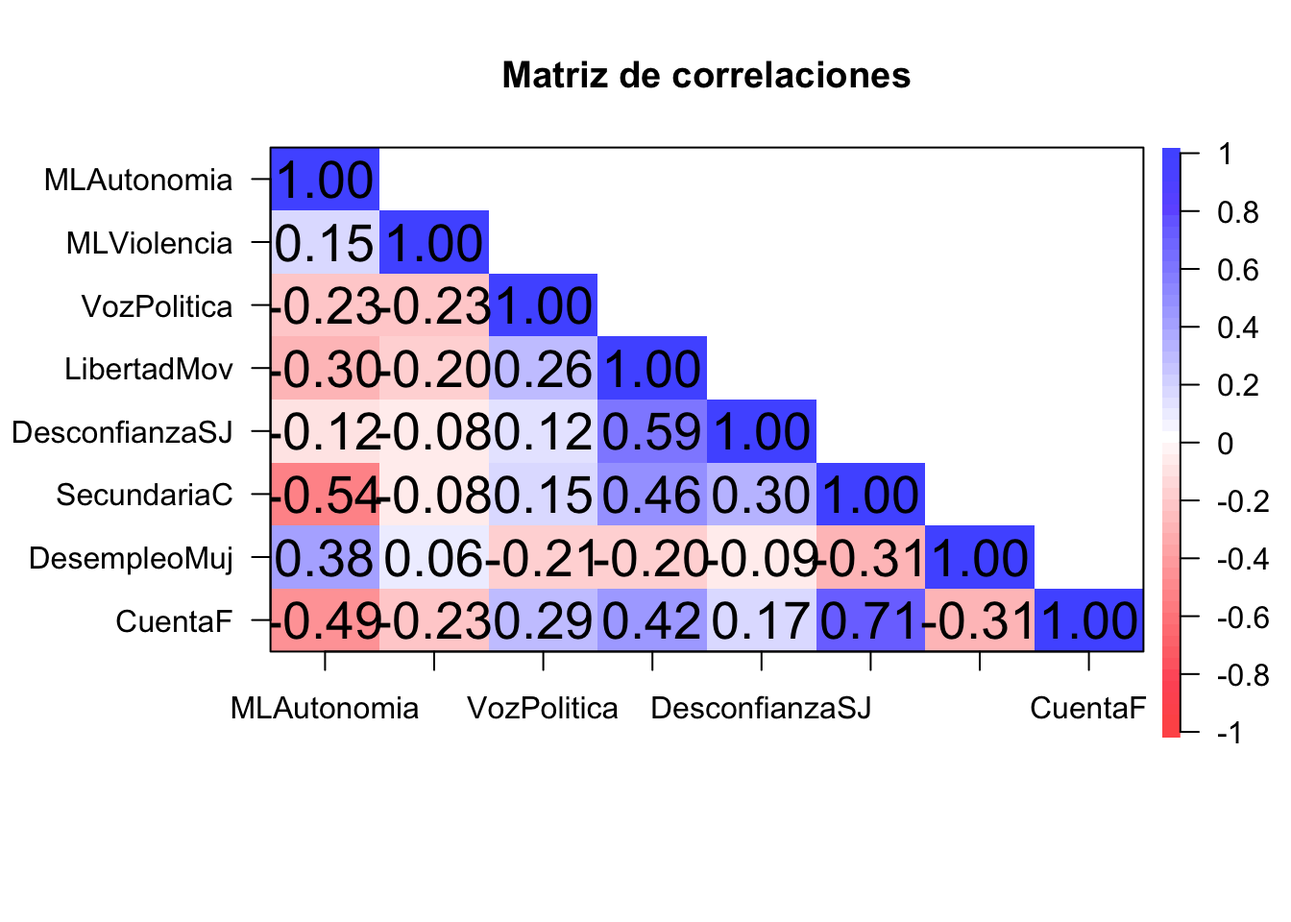
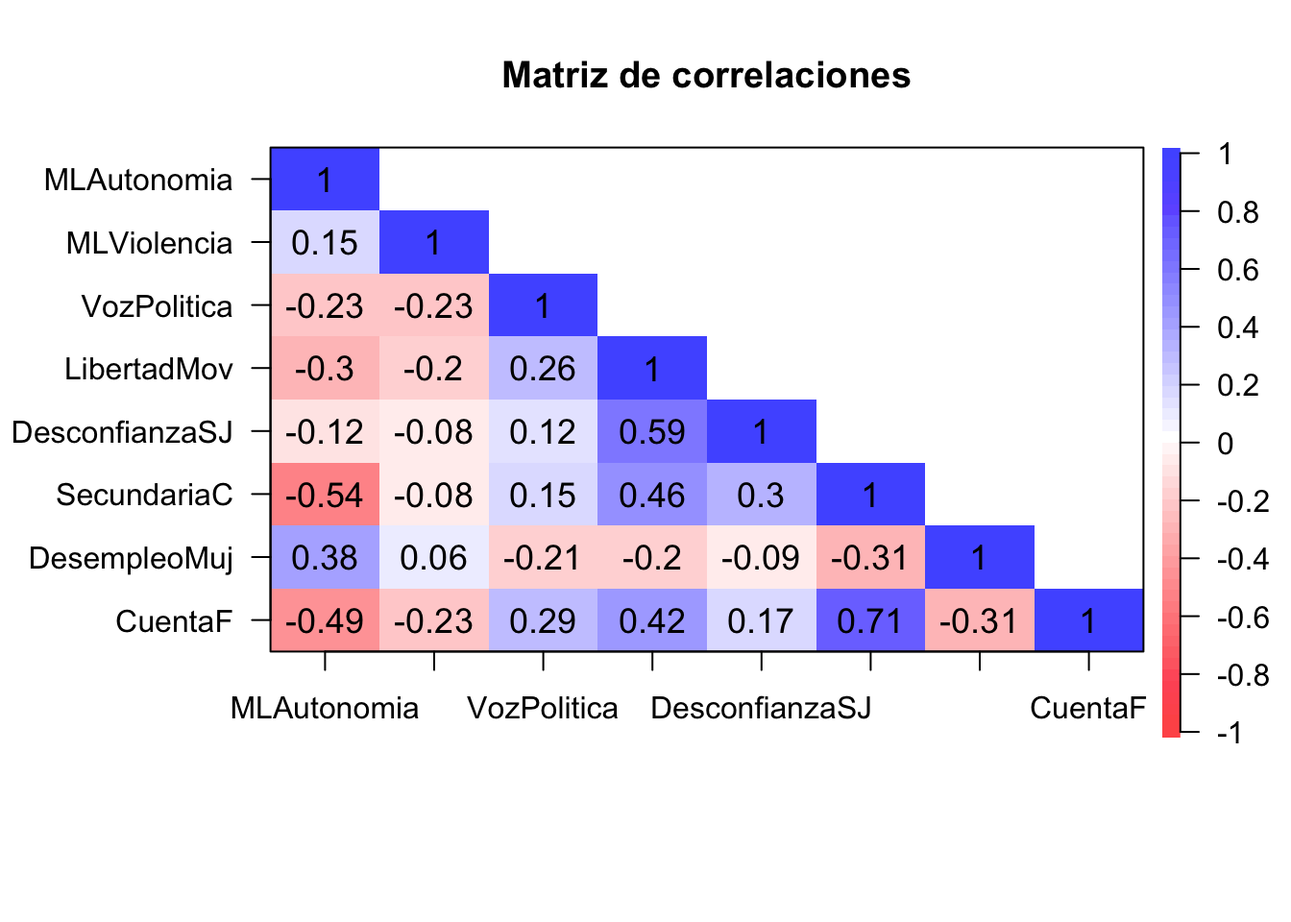
cambios-chiquis

Changed region(s): [[0.1875, 0.3125, 0.9062, 0.7188], [0.1875, 0.1562, 0.375, 0.2812]]

diff --git a/AFC.html b/AFC.html
@@ -13,7 +13,7 @@
 
 <title>Análisis Factorial Confirmatorio</title>
 
-<script src="site_libs/header-attrs-2.21/header-attrs.js"></script>
+<script src="site_libs/header-attrs-2.20/header-attrs.js"></script>
 <script src="site_libs/jquery-3.6.0/jquery-3.6.0.min.js"></script>
 <meta name="viewport" content="width=device-width, initial-scale=1" />
 <link href="site_libs/bootstrap-3.3.5/css/simplex.min.css" rel="stylesheet" />
@@ -34,8 +34,8 @@
 <script src="site_libs/tocify-1.9.1/jquery.tocify.js"></script>
 <script src="site_libs/navigation-1.1/tabsets.js"></script>
 <script src="site_libs/navigation-1.1/codefolding.js"></script>
-<link href="site_libs/font-awesome-6.4.0/css/all.min.css" rel="stylesheet" />
-<link href="site_libs/font-awesome-6.4.0/css/v4-shims.min.css" rel="stylesheet" />
+<link href="site_libs/font-awesome-5.1.0/css/all.css" rel="stylesheet" />
+<link href="site_libs/font-awesome-5.1.0/css/v4-shims.css" rel="stylesheet" />
 
 <style type="text/css">
   code{white-space: pre-wrap;}
@@ -540,50 +540,34 @@ sistema financiero.</p></li>
 </ol>
 <p>Las dos primeras variables son descriptivas, la primera es con
 respecto al país y la segunda es el índice, como un resultado final.</p>
-<div class="sourceCode" id="cb1"><pre class="sourceCode r"><code class="sourceCode r"><span id="cb1-1"><a href="#cb1-1" aria-hidden="true" tabindex="-1"></a><span class="fu">library</span>(rio)</span>
-<span id="cb1-2"><a href="#cb1-2" aria-hidden="true" tabindex="-1"></a>data<span class="ot">&lt;-</span> <span class="fu">import</span>(<span class="st">&quot;desigualdad.xlsx&quot;</span>)</span>
-<span id="cb1-3"><a href="#cb1-3" aria-hidden="true" tabindex="-1"></a><span class="fu">names</span>(data)</span></code></pre></div>
+<div class="sourceCode" id="cb1"><pre class="sourceCode r"><code class="sourceCode r"><span id="cb1-1"><a href="#cb1-1" tabindex="-1"></a><span class="fu">library</span>(rio)</span>
+<span id="cb1-2"><a href="#cb1-2" tabindex="-1"></a>data<span class="ot">&lt;-</span> <span class="fu">import</span>(<span class="st">&quot;desigualdad.xlsx&quot;</span>)</span>
+<span id="cb1-3"><a href="#cb1-3" tabindex="-1"></a><span class="fu">names</span>(data)</span></code></pre></div>
 <p>Lo llamaremos <strong>subdata</strong>:</p>
-<div class="sourceCode" id="cb2"><pre class="sourceCode r"><code class="sourceCode r"><span id="cb2-1"><a href="#cb2-1" aria-hidden="true" tabindex="-1"></a>subdata<span class="ot">&lt;-</span> data[,<span class="fu">c</span>(<span class="dv">3</span><span class="sc">:</span><span class="dv">10</span>)]</span></code></pre></div>
+<div class="sourceCode" id="cb2"><pre class="sourceCode r"><code class="sourceCode r"><span id="cb2-1"><a href="#cb2-1" tabindex="-1"></a>subdata<span class="ot">&lt;-</span> data[,<span class="fu">c</span>(<span class="dv">3</span><span class="sc">:</span><span class="dv">10</span>)]</span></code></pre></div>
 </div>
 </div>
-<div id="paso-1-matriz-de-correlaciones" class="section level2">
-<h2>Paso 1: Matriz de correlaciones</h2>
+<div id="paso-1-matriz-de-correlaciones" class="section level1">
+<h1>Paso 1: Matriz de correlaciones</h1>
 <p>Generamos la matriz de correlaciones para identificar qué variables
 de nuestra subdata están correlacionadas.</p>
-<div class="sourceCode" id="cb3"><pre class="sourceCode r"><code class="sourceCode r"><span id="cb3-1"><a href="#cb3-1" aria-hidden="true" tabindex="-1"></a><span class="fu">library</span>(polycor)</span>
-<span id="cb3-2"><a href="#cb3-2" aria-hidden="true" tabindex="-1"></a>corMatrix<span class="ot">&lt;-</span>polycor<span class="sc">::</span><span class="fu">hetcor</span>(subdata)<span class="sc">$</span>correlations</span>
-<span id="cb3-3"><a href="#cb3-3" aria-hidden="true" tabindex="-1"></a>corMatrix</span></code></pre></div>
-<pre><code>##                MLAutonomia MLViolencia VozPolitica LibertadMov DesconfianzaSJ
-## MLAutonomia      1.0000000  0.15421933  -0.2322180  -0.2961173    -0.11756698
-## MLViolencia      0.1542193  1.00000000  -0.2266534  -0.2008152    -0.08173408
-## VozPolitica     -0.2322180 -0.22665338   1.0000000   0.2563084     0.12122757
-## LibertadMov     -0.2961173 -0.20081518   0.2563084   1.0000000     0.58969916
-## DesconfianzaSJ  -0.1175670 -0.08173408   0.1212276   0.5896992     1.00000000
-## SecundariaC     -0.5392837 -0.07506195   0.1462758   0.4608946     0.30338100
-## DesempleoMuj     0.3798929  0.06311283  -0.2092122  -0.1966058    -0.08814631
-## CuentaF         -0.4890307 -0.22699472   0.2889660   0.4158157     0.17302123
-##                SecundariaC DesempleoMuj    CuentaF
-## MLAutonomia    -0.53928370   0.37989285 -0.4890307
-## MLViolencia    -0.07506195   0.06311283 -0.2269947
-## VozPolitica     0.14627576  -0.20921218  0.2889660
-## LibertadMov     0.46089464  -0.19660582  0.4158157
-## DesconfianzaSJ  0.30338100  -0.08814631  0.1730212
-## SecundariaC     1.00000000  -0.30574213  0.7104165
-## DesempleoMuj   -0.30574213   1.00000000 -0.3137069
-## CuentaF         0.71041650  -0.31370692  1.0000000</code></pre>
-<div class="sourceCode" id="cb5"><pre class="sourceCode r"><code class="sourceCode r"><span id="cb5-1"><a href="#cb5-1" aria-hidden="true" tabindex="-1"></a><span class="fu">library</span>(psych)</span>
-<span id="cb5-2"><a href="#cb5-2" aria-hidden="true" tabindex="-1"></a><span class="fu">cor.plot</span>(corMatrix,</span>
-<span id="cb5-3"><a href="#cb5-3" aria-hidden="true" tabindex="-1"></a>          <span class="at">numbers=</span>T, <span class="co">#Se muestren los numeros de las correlaciones</span></span>
-<span id="cb5-4"><a href="#cb5-4" aria-hidden="true" tabindex="-1"></a>          <span class="at">upper=</span>F, <span class="co">#Que aparezca la segunda parte</span></span>
-<span id="cb5-5"><a href="#cb5-5" aria-hidden="true" tabindex="-1"></a>          <span class="at">main=</span> <span class="st">&quot;Matriz de correlaciones&quot;</span>,<span class="co">#Titulo</span></span>
-<span id="cb5-6"><a href="#cb5-6" aria-hidden="true" tabindex="-1"></a>          <span class="at">show.legend=</span>T)<span class="co">#Mostrar leyenda</span></span></code></pre></div>
-<p><img src="AFC_files/figure-html/unnamed-chunk-5-1.png" width="672" />
-# Paso 2: Corroborar si se puede factorizar</p>
+<div class="sourceCode" id="cb3"><pre class="sourceCode r"><code class="sourceCode r"><span id="cb3-1"><a href="#cb3-1" tabindex="-1"></a><span class="fu">library</span>(polycor)</span>
+<span id="cb3-2"><a href="#cb3-2" tabindex="-1"></a>corMatrix<span class="ot">&lt;-</span>polycor<span class="sc">::</span><span class="fu">hetcor</span>(subdata)<span class="sc">$</span>correlations</span></code></pre></div>
+<div class="sourceCode" id="cb4"><pre class="sourceCode r"><code class="sourceCode r"><span id="cb4-1"><a href="#cb4-1" tabindex="-1"></a><span class="fu">library</span>(psych)</span>
+<span id="cb4-2"><a href="#cb4-2" tabindex="-1"></a><span class="fu">cor.plot</span>(corMatrix,</span>
+<span id="cb4-3"><a href="#cb4-3" tabindex="-1"></a>          <span class="at">numbers=</span>T, <span class="co">#Se muestren los numeros de las correlaciones</span></span>
+<span id="cb4-4"><a href="#cb4-4" tabindex="-1"></a>          <span class="at">upper=</span>F, <span class="co">#Que aparezca la segunda parte</span></span>
+<span id="cb4-5"><a href="#cb4-5" tabindex="-1"></a>          <span class="at">main=</span> <span class="st">&quot;Matriz de correlaciones&quot;</span>,<span class="co">#Titulo</span></span>
+<span id="cb4-6"><a href="#cb4-6" tabindex="-1"></a>          <span class="at">show.legend=</span>T)<span class="co">#Mostrar leyenda</span></span></code></pre></div>
+<p><img src="AFC_files/figure-html/unnamed-chunk-5-1.png" width="672" /></p>
+</div>
+<div id="paso-2-corroborar-si-se-puede-factorizar"
+class="section level1">
+<h1>Paso 2: Corroborar si se puede factorizar</h1>
 <p>KMO</p>
 <p>Proceso correlación</p>
-<div class="sourceCode" id="cb6"><pre class="sourceCode r"><code class="sourceCode r"><span id="cb6-1"><a href="#cb6-1" aria-hidden="true" tabindex="-1"></a><span class="fu">library</span>(psych)</span>
-<span id="cb6-2"><a href="#cb6-2" aria-hidden="true" tabindex="-1"></a>psych<span class="sc">::</span><span class="fu">KMO</span>(subdata)</span></code></pre></div>
+<div class="sourceCode" id="cb5"><pre class="sourceCode r"><code class="sourceCode r"><span id="cb5-1"><a href="#cb5-1" tabindex="-1"></a><span class="fu">library</span>(psych)</span>
+<span id="cb5-2"><a href="#cb5-2" tabindex="-1"></a>psych<span class="sc">::</span><span class="fu">KMO</span>(subdata)</span></code></pre></div>
 <pre><code>## Kaiser-Meyer-Olkin factor adequacy
 ## Call: psych::KMO(r = subdata)
 ## Overall MSA =  0.73
@@ -593,28 +577,27 @@ de nuestra subdata están correlacionadas.</p>
 ##    SecundariaC   DesempleoMuj        CuentaF 
 ##           0.70           0.85           0.72</code></pre>
 <p>Bartlet</p>
-<div class="sourceCode" id="cb8"><pre class="sourceCode r"><code class="sourceCode r"><span id="cb8-1"><a href="#cb8-1" aria-hidden="true" tabindex="-1"></a><span class="fu">cortest.bartlett</span>(corMatrix,<span class="at">n=</span><span class="fu">nrow</span>(subdata))<span class="sc">$</span>p.value<span class="sc">&gt;</span><span class="fl">0.05</span> <span class="co">#Menor a 0.05 saldrá FALSE, mayor a 0.05 saldra TRUE</span></span></code></pre></div>
+<div class="sourceCode" id="cb7"><pre class="sourceCode r"><code class="sourceCode r"><span id="cb7-1"><a href="#cb7-1" tabindex="-1"></a><span class="fu">cortest.bartlett</span>(corMatrix,<span class="at">n=</span><span class="fu">nrow</span>(subdata))<span class="sc">$</span>p.value<span class="sc">&gt;</span><span class="fl">0.05</span> <span class="co">#Menor a 0.05 saldrá FALSE, mayor a 0.05 saldra TRUE</span></span></code></pre></div>
 <pre><code>## [1] FALSE</code></pre>
 </div>
 <div id="paso-3-análisis-factorial-exploratorio" class="section level1">
 <h1>Paso 3: Análisis Factorial Exploratorio</h1>
 <p>Gráfico de sedimentación</p>
-<div class="sourceCode" id="cb10"><pre class="sourceCode r"><code class="sourceCode r"><span id="cb10-1"><a href="#cb10-1" aria-hidden="true" tabindex="-1"></a><span class="fu">fa.parallel</span>(corMatrix, <span class="at">fm=</span><span class="st">&quot;pa&quot;</span>, <span class="at">fa=</span><span class="st">&quot;fa&quot;</span>, <span class="at">main =</span> <span class="st">&quot;Scree Plot&quot;</span>)</span></code></pre></div>
+<div class="sourceCode" id="cb9"><pre class="sourceCode r"><code class="sourceCode r"><span id="cb9-1"><a href="#cb9-1" tabindex="-1"></a><span class="fu">fa.parallel</span>(corMatrix, <span class="at">fm=</span><span class="st">&quot;pa&quot;</span>, <span class="at">fa=</span><span class="st">&quot;fa&quot;</span>, <span class="at">main =</span> <span class="st">&quot;Scree Plot&quot;</span>)</span></code></pre></div>
 <p><img src="AFC_files/figure-html/unnamed-chunk-8-1.png" width="672" /></p>
 <pre><code>## Parallel analysis suggests that the number of factors =  4  and the number of components =  NA</code></pre>
-<p>Recomienda 3 factores, 3 triangulos debajo de la línea punteada</p>
 <p>Autovalores</p>
-<div class="sourceCode" id="cb12"><pre class="sourceCode r"><code class="sourceCode r"><span id="cb12-1"><a href="#cb12-1" aria-hidden="true" tabindex="-1"></a>eigenf <span class="ot">=</span> <span class="fu">eigen</span>(<span class="fu">cor</span>(subdata, <span class="at">use=</span><span class="st">&quot;complete&quot;</span>))</span>
-<span id="cb12-2"><a href="#cb12-2" aria-hidden="true" tabindex="-1"></a>eigenf<span class="sc">$</span>values</span></code></pre></div>
+<div class="sourceCode" id="cb11"><pre class="sourceCode r"><code class="sourceCode r"><span id="cb11-1"><a href="#cb11-1" tabindex="-1"></a>eigenf <span class="ot">=</span> <span class="fu">eigen</span>(<span class="fu">cor</span>(subdata, <span class="at">use=</span><span class="st">&quot;complete&quot;</span>))</span>
+<span id="cb11-2"><a href="#cb11-2" tabindex="-1"></a>eigenf<span class="sc">$</span>values</span></code></pre></div>
 <pre><code>## [1] 3.0714888 1.2071756 1.0772113 0.8265806 0.7015968 0.5154084 0.3600658
 ## [8] 0.2404727</code></pre>
 <p>También recomienda 3 factores :)</p>
 </div>
 <div id="factorizar" class="section level1">
 <h1>Factorizar</h1>
-<div class="sourceCode" id="cb14"><pre class="sourceCode r"><code class="sourceCode r"><span id="cb14-1"><a href="#cb14-1" aria-hidden="true" tabindex="-1"></a><span class="fu">library</span>(GPArotation)</span>
-<span id="cb14-2"><a href="#cb14-2" aria-hidden="true" tabindex="-1"></a>factorial <span class="ot">&lt;-</span> <span class="fu">fa</span>(subdata,<span class="at">nfactors=</span> <span class="dv">3</span> ,<span class="at">rotate =</span> <span class="st">&quot;varimax&quot;</span>,<span class="at">fm=</span><span class="st">&quot;minres&quot;</span>)</span>
-<span id="cb14-3"><a href="#cb14-3" aria-hidden="true" tabindex="-1"></a>factorial</span></code></pre></div>
+<div class="sourceCode" id="cb13"><pre class="sourceCode r"><code class="sourceCode r"><span id="cb13-1"><a href="#cb13-1" tabindex="-1"></a><span class="fu">library</span>(GPArotation)</span>
+<span id="cb13-2"><a href="#cb13-2" tabindex="-1"></a>factorial <span class="ot">&lt;-</span> <span class="fu">fa</span>(subdata,<span class="at">nfactors=</span> <span class="dv">3</span> ,<span class="at">rotate =</span> <span class="st">&quot;varimax&quot;</span>,<span class="at">fm=</span><span class="st">&quot;minres&quot;</span>)</span>
+<span id="cb13-3"><a href="#cb13-3" tabindex="-1"></a>factorial</span></code></pre></div>
 <pre><code>## Factor Analysis using method =  minres
 ## Call: fa(r = subdata, nfactors = 3, rotate = &quot;varimax&quot;, fm = &quot;minres&quot;)
 ## Standardized loadings (pattern matrix) based upon correlation matrix
@@ -638,14 +621,14 @@ de nuestra subdata están correlacionadas.</p>
 ## Mean item complexity =  1.4
 ## Test of the hypothesis that 3 factors are sufficient.
 ## 
-## df null model =  28  with the objective function =  2.27 with Chi Square =  264.39
-## df of  the model are 7  and the objective function was  0.05 
+## The degrees of freedom for the null model are  28  and the objective function was  2.27 with Chi Square of  264.39
+## The degrees of freedom for the model are 7  and the objective function was  0.05 
 ## 
 ## The root mean square of the residuals (RMSR) is  0.03 
 ## The df corrected root mean square of the residuals is  0.05 
 ## 
-## The harmonic n.obs is  121 with the empirical chi square  4.49  with prob &lt;  0.72 
-## The total n.obs was  121  with Likelihood Chi Square =  6.28  with prob &lt;  0.51 
+## The harmonic number of observations is  121 with the empirical chi square  4.49  with prob &lt;  0.72 
+## The total number of observations was  121  with Likelihood Chi Square =  6.28  with prob &lt;  0.51 
 ## 
 ## Tucker Lewis Index of factoring reliability =  1.012
 ## RMSEA index =  0  and the 90 % confidence intervals are  0 0.105
@@ -656,23 +639,23 @@ de nuestra subdata están correlacionadas.</p>
 ## Correlation of (regression) scores with factors   0.98 0.86 0.78
 ## Multiple R square of scores with factors          0.96 0.74 0.61
 ## Minimum correlation of possible factor scores     0.92 0.47 0.21</code></pre>
-<div class="sourceCode" id="cb16"><pre class="sourceCode r"><code class="sourceCode r"><span id="cb16-1"><a href="#cb16-1" aria-hidden="true" tabindex="-1"></a><span class="fu">fa.diagram</span>(factorial)</span></code></pre></div>
+<div class="sourceCode" id="cb15"><pre class="sourceCode r"><code class="sourceCode r"><span id="cb15-1"><a href="#cb15-1" tabindex="-1"></a><span class="fu">fa.diagram</span>(factorial)</span></code></pre></div>
 <p><img src="AFC_files/figure-html/unnamed-chunk-11-1.png" width="672" /></p>
 <p>Podemos observar que hay unas líneas punteadas rojas, ello implica
 que las cargas factoriales son negativas, lo que significa que la
 relación entre la variable observable y el factor creado es inversa.</p>
 <p>** Vemos cargas factoriales y cumulative var.**</p>
-<div class="sourceCode" id="cb17"><pre class="sourceCode r"><code class="sourceCode r"><span id="cb17-1"><a href="#cb17-1" aria-hidden="true" tabindex="-1"></a><span class="fu">print</span>(factorial<span class="sc">$</span>loadings,<span class="at">cutoff =</span> <span class="fl">0.3</span>)</span></code></pre></div>
+<div class="sourceCode" id="cb16"><pre class="sourceCode r"><code class="sourceCode r"><span id="cb16-1"><a href="#cb16-1" tabindex="-1"></a><span class="fu">print</span>(factorial<span class="sc">$</span>loadings,<span class="at">cutoff =</span> <span class="fl">0.2</span>)</span></code></pre></div>
 <pre><code>## 
 ## Loadings:
 ##                MR1    MR2    MR3   
 ## MLAutonomia    -0.585        -0.311
 ## MLViolencia                  -0.368
 ## VozPolitica                   0.512
-## LibertadMov            0.773       
+## LibertadMov     0.259  0.773  0.298
 ## DesconfianzaSJ         0.708       
 ## SecundariaC     0.943  0.319       
-## DesempleoMuj   -0.363              
+## DesempleoMuj   -0.363        -0.271
 ## CuentaF         0.696         0.318
 ## 
 ##                  MR1   MR2   MR3
@@ -684,10 +667,10 @@ relación entre la variable observable y el factor creado es inversa.</p>
 <p>3.Proportion Var y Cumulative Var</p>
 <p>#Evaluamos las variables observadas</p>
 <ul>
-<li>¿Qué variables observables tienen mayor información en común
+<li>¿Qué variables observables tienen mayor información en común/
 aportaron mas a los factores?</li>
 </ul>
-<div class="sourceCode" id="cb19"><pre class="sourceCode r"><code class="sourceCode r"><span id="cb19-1"><a href="#cb19-1" aria-hidden="true" tabindex="-1"></a><span class="fu">sort</span>(factorial<span class="sc">$</span>communality) <span class="co">#comunalidad=varianza común</span></span></code></pre></div>
+<div class="sourceCode" id="cb18"><pre class="sourceCode r"><code class="sourceCode r"><span id="cb18-1"><a href="#cb18-1" tabindex="-1"></a><span class="fu">sort</span>(factorial<span class="sc">$</span>communality) <span class="co">#comunalidad=varianza común</span></span></code></pre></div>
 <pre><code>##    MLViolencia   DesempleoMuj    VozPolitica    MLAutonomia DesconfianzaSJ 
 ##      0.1496488      0.2059285      0.2952376      0.4424106      0.5122846 
 ##        CuentaF    LibertadMov    SecundariaC 
@@ -695,9 +678,9 @@ aportaron mas a los factores?</li>
 <p>Secundaria y Libertad Mov tienen mayor información en común con las
 demás variables (comunalidad)</p>
 <ul>
-<li>¿Qué variables contribuyen a mas de un factor?</li>
+<li>¿Qué variables contribuyen a más de un factor?</li>
 </ul>
-<div class="sourceCode" id="cb21"><pre class="sourceCode r"><code class="sourceCode r"><span id="cb21-1"><a href="#cb21-1" aria-hidden="true" tabindex="-1"></a><span class="fu">sort</span>(factorial<span class="sc">$</span>complexity)</span></code></pre></div>
+<div class="sourceCode" id="cb20"><pre class="sourceCode r"><code class="sourceCode r"><span id="cb20-1"><a href="#cb20-1" tabindex="-1"></a><span class="fu">sort</span>(factorial<span class="sc">$</span>complexity)</span></code></pre></div>
 <pre><code>## DesconfianzaSJ    MLViolencia    SecundariaC    VozPolitica        CuentaF 
 ##       1.042928       1.209716       1.239126       1.255815       1.533909 
 ##    LibertadMov    MLAutonomia   DesempleoMuj 
@@ -706,7 +689,7 @@ demás variables (comunalidad)</p>
 <li>¿Qué variables observables tiene un componente “único” más
 grande?</li>
 </ul>
-<div class="sourceCode" id="cb23"><pre class="sourceCode r"><code class="sourceCode r"><span id="cb23-1"><a href="#cb23-1" aria-hidden="true" tabindex="-1"></a><span class="fu">sort</span>(factorial<span class="sc">$</span>uniquenesses)</span></code></pre></div>
+<div class="sourceCode" id="cb22"><pre class="sourceCode r"><code class="sourceCode r"><span id="cb22-1"><a href="#cb22-1" tabindex="-1"></a><span class="fu">sort</span>(factorial<span class="sc">$</span>uniquenesses)</span></code></pre></div>
 <pre><code>##    SecundariaC    LibertadMov        CuentaF DesconfianzaSJ    MLAutonomia 
 ##    0.003531703    0.246615008    0.386347125    0.487715417    0.557589415 
 ##    VozPolitica   DesempleoMuj    MLViolencia 
@@ -715,30 +698,31 @@ grande?</li>
 quiere decir que aportan poco cn la información en común que se tiene
 con las demás variables.</p>
 </div>
-<div id="análisis-factorial-confirmatorio" class="section level1">
-<h1>Análisis Factorial confirmatorio</h1>
+<div id="paso-4-análisis-factorial-confirmatorio"
+class="section level1">
+<h1>Paso 4: Análisis Factorial confirmatorio</h1>
 <p>Como tenemos una sugerencia planteada en el AFE, lo corroboraremos
 con el AFC.</p>
 <p>En caso una variable observable comparte en más de un factor la
 consideraremos en donde tiene una mayor carga factorial.</p>
-<div class="sourceCode" id="cb25"><pre class="sourceCode r"><code class="sourceCode r"><span id="cb25-1"><a href="#cb25-1" aria-hidden="true" tabindex="-1"></a><span class="co">#install.packages(&quot;lavaan&quot;)</span></span>
-<span id="cb25-2"><a href="#cb25-2" aria-hidden="true" tabindex="-1"></a><span class="co">#install.packages(&quot;semPlot&quot;)</span></span>
-<span id="cb25-3"><a href="#cb25-3" aria-hidden="true" tabindex="-1"></a><span class="fu">library</span>(lavaan)</span>
-<span id="cb25-4"><a href="#cb25-4" aria-hidden="true" tabindex="-1"></a><span class="fu">library</span>(semPlot)</span></code></pre></div>
-<div class="sourceCode" id="cb26"><pre class="sourceCode r"><code class="sourceCode r"><span id="cb26-1"><a href="#cb26-1" aria-hidden="true" tabindex="-1"></a><span class="fu">names</span>(subdata)</span></code></pre></div>
+<div class="sourceCode" id="cb24"><pre class="sourceCode r"><code class="sourceCode r"><span id="cb24-1"><a href="#cb24-1" tabindex="-1"></a><span class="co">#install.packages(&quot;lavaan&quot;)</span></span>
+<span id="cb24-2"><a href="#cb24-2" tabindex="-1"></a><span class="co">#install.packages(&quot;semPlot&quot;)</span></span>
+<span id="cb24-3"><a href="#cb24-3" tabindex="-1"></a><span class="fu">library</span>(lavaan)</span>
+<span id="cb24-4"><a href="#cb24-4" tabindex="-1"></a><span class="fu">library</span>(semPlot)</span></code></pre></div>
+<div class="sourceCode" id="cb25"><pre class="sourceCode r"><code class="sourceCode r"><span id="cb25-1"><a href="#cb25-1" tabindex="-1"></a><span class="fu">names</span>(subdata)</span></code></pre></div>
 <pre><code>## [1] &quot;MLAutonomia&quot;    &quot;MLViolencia&quot;    &quot;VozPolitica&quot;    &quot;LibertadMov&quot;   
 ## [5] &quot;DesconfianzaSJ&quot; &quot;SecundariaC&quot;    &quot;DesempleoMuj&quot;   &quot;CuentaF&quot;</code></pre>
-<div class="sourceCode" id="cb28"><pre class="sourceCode r"><code class="sourceCode r"><span id="cb28-1"><a href="#cb28-1" aria-hidden="true" tabindex="-1"></a>Modelo_confir <span class="ot">&lt;-</span> <span class="st">&quot;FAC1 =~ SecundariaC + CuentaF + MLAutonomia + DesempleoMuj</span></span>
-<span id="cb28-2"><a href="#cb28-2" aria-hidden="true" tabindex="-1"></a><span class="st">                FAC2 =~ LibertadMov + DesconfianzaSJ</span></span>
-<span id="cb28-3"><a href="#cb28-3" aria-hidden="true" tabindex="-1"></a><span class="st">                FAC3 =~ VozPolitica + MLViolencia&quot;</span></span>
-<span id="cb28-4"><a href="#cb28-4" aria-hidden="true" tabindex="-1"></a>Modelo_confir</span></code></pre></div>
+<div class="sourceCode" id="cb27"><pre class="sourceCode r"><code class="sourceCode r"><span id="cb27-1"><a href="#cb27-1" tabindex="-1"></a>Modelo_confir <span class="ot">&lt;-</span> <span class="st">&quot;FAC1 =~ SecundariaC + CuentaF + MLAutonomia + DesempleoMuj</span></span>
+<span id="cb27-2"><a href="#cb27-2" tabindex="-1"></a><span class="st">                FAC2 =~ LibertadMov + DesconfianzaSJ</span></span>
+<span id="cb27-3"><a href="#cb27-3" tabindex="-1"></a><span class="st">                FAC3 =~ VozPolitica + MLViolencia&quot;</span></span>
+<span id="cb27-4"><a href="#cb27-4" tabindex="-1"></a>Modelo_confir</span></code></pre></div>
 <pre><code>## [1] &quot;FAC1 =~ SecundariaC + CuentaF + MLAutonomia + DesempleoMuj\n                FAC2 =~ LibertadMov + DesconfianzaSJ\n                FAC3 =~ VozPolitica + MLViolencia&quot;</code></pre>
 <p>Lo que se realizaría es indicar el nombre de cada facrtor, y qué
 variables las integran, solo indicamos el nombre de estas variables, en
 el siguiente comando indicaríamos la base</p>
-<div class="sourceCode" id="cb30"><pre class="sourceCode r"><code class="sourceCode r"><span id="cb30-1"><a href="#cb30-1" aria-hidden="true" tabindex="-1"></a>modelo<span class="ot">&lt;-</span><span class="fu">cfa</span>(Modelo_confir, <span class="at">data=</span>subdata)</span>
-<span id="cb30-2"><a href="#cb30-2" aria-hidden="true" tabindex="-1"></a><span class="fu">summary</span>(modelo,<span class="at">fit.measures=</span>F)</span></code></pre></div>
-<pre><code>## lavaan 0.6.15 ended normally after 255 iterations
+<div class="sourceCode" id="cb29"><pre class="sourceCode r"><code class="sourceCode r"><span id="cb29-1"><a href="#cb29-1" tabindex="-1"></a>modelo<span class="ot">&lt;-</span><span class="fu">cfa</span>(Modelo_confir, <span class="at">data=</span>subdata)</span>
+<span id="cb29-2"><a href="#cb29-2" tabindex="-1"></a><span class="fu">summary</span>(modelo,<span class="at">fit.measures=</span>F)</span></code></pre></div>
+<pre><code>## lavaan 0.6.16 ended normally after 255 iterations
 ## 
 ##   Estimator                                         ML
 ##   Optimization method                           NLMINB
@@ -788,7 +772,7 @@ el siguiente comando indicaríamos la base</p>
 ##    .DesempleoMuj      0.128    0.017    7.529    0.000
 ##    .LibertadMov     -16.010   31.116   -0.515    0.607
 ##    .DesconfianzaSJ   43.848    7.328    5.984    0.000
-##    .VozPolitica      91.392   23.388    3.908    0.000
+##    .VozPolitica      91.391   23.388    3.908    0.000
 ##    .MLViolencia       0.036    0.006    6.195    0.000
 ##     FAC1            644.026  122.846    5.243    0.000
 ##     FAC2            126.940   34.105    3.722    0.000
@@ -798,7 +782,7 @@ tengan un pvalue menor a 0.05 para concluir que si aportan a los
 factores de manera significativa.</p>
 <div id="graficamos" class="section level2">
 <h2><strong>Graficamos</strong></h2>
-<div class="sourceCode" id="cb32"><pre class="sourceCode r"><code class="sourceCode r"><span id="cb32-1"><a href="#cb32-1" aria-hidden="true" tabindex="-1"></a><span class="fu">semPaths</span>(modelo, <span class="at">intercepts =</span> <span class="cn">FALSE</span>,<span class="at">edge.label.cex=</span><span class="fl">1.5</span>, <span class="at">optimizeLatRes =</span> <span class="cn">TRUE</span>, <span class="at">groups =</span> <span class="st">&quot;lat&quot;</span>,<span class="at">pastel =</span> <span class="cn">TRUE</span>, <span class="at">exoVar =</span> <span class="cn">FALSE</span>, <span class="at">sizeInt=</span><span class="dv">5</span>,<span class="at">edge.color =</span><span class="st">&quot;black&quot;</span>,<span class="at">esize =</span> <span class="dv">6</span>, <span class="at">label.prop=</span><span class="dv">2</span>,<span class="at">sizeLat =</span> <span class="dv">6</span>,<span class="st">&quot;std&quot;</span>, <span class="at">layout=</span><span class="st">&quot;circle2&quot;</span>)</span></code></pre></div>
+<div class="sourceCode" id="cb31"><pre class="sourceCode r"><code class="sourceCode r"><span id="cb31-1"><a href="#cb31-1" tabindex="-1"></a><span class="fu">semPaths</span>(modelo, <span class="at">intercepts =</span> <span class="cn">FALSE</span>,<span class="at">edge.label.cex=</span><span class="fl">1.5</span>, <span class="at">optimizeLatRes =</span> <span class="cn">TRUE</span>, <span class="at">groups =</span> <span class="st">&quot;lat&quot;</span>,<span class="at">pastel =</span> <span class="cn">TRUE</span>, <span class="at">exoVar =</span> <span class="cn">FALSE</span>, <span class="at">sizeInt=</span><span class="dv">5</span>,<span class="at">edge.color =</span><span class="st">&quot;black&quot;</span>,<span class="at">esize =</span> <span class="dv">6</span>, <span class="at">label.prop=</span><span class="dv">2</span>,<span class="at">sizeLat =</span> <span class="dv">6</span>,<span class="st">&quot;std&quot;</span>, <span class="at">layout=</span><span class="st">&quot;circle2&quot;</span>)</span></code></pre></div>
 <p><img src="AFC_files/figure-html/unnamed-chunk-20-1.png" width="672" /></p>
 <p>Podemos observar los 3 factores creados. Los numeros que vemos entre
 los factores y las variables latentes son las cargas facrtoriales,
@@ -810,23 +794,23 @@ sea menor que la carga factorial.</p>
 <div id="agregamos-los-factores-a-la-base-de-datos"
 class="section level2">
 <h2>Agregamos los factores a la base de datos</h2>
-<div class="sourceCode" id="cb33"><pre class="sourceCode r"><code class="sourceCode r"><span id="cb33-1"><a href="#cb33-1" aria-hidden="true" tabindex="-1"></a>factorial_casos<span class="ot">&lt;-</span><span class="fu">as.data.frame</span>(factorial<span class="sc">$</span>scores)</span></code></pre></div>
-<div class="sourceCode" id="cb34"><pre class="sourceCode r"><code class="sourceCode r"><span id="cb34-1"><a href="#cb34-1" aria-hidden="true" tabindex="-1"></a>subdata<span class="sc">$</span>factor1<span class="ot">&lt;-</span> factorial_casos<span class="sc">$</span>MR1</span>
-<span id="cb34-2"><a href="#cb34-2" aria-hidden="true" tabindex="-1"></a>subdata<span class="sc">$</span>factor2<span class="ot">&lt;-</span> factorial_casos<span class="sc">$</span>MR2</span>
-<span id="cb34-3"><a href="#cb34-3" aria-hidden="true" tabindex="-1"></a>subdata<span class="sc">$</span>factor3<span class="ot">&lt;-</span> factorial_casos<span class="sc">$</span>MR3</span></code></pre></div>
-<div class="sourceCode" id="cb35"><pre class="sourceCode r"><code class="sourceCode r"><span id="cb35-1"><a href="#cb35-1" aria-hidden="true" tabindex="-1"></a><span class="fu">library</span>(BBmisc)</span>
-<span id="cb35-2"><a href="#cb35-2" aria-hidden="true" tabindex="-1"></a>data<span class="sc">$</span>autoecon <span class="ot">&lt;-</span> <span class="fu">normalize</span>(subdata<span class="sc">$</span>factor1, </span>
-<span id="cb35-3"><a href="#cb35-3" aria-hidden="true" tabindex="-1"></a>                                        <span class="at">method =</span> <span class="st">&quot;range&quot;</span>, </span>
-<span id="cb35-4"><a href="#cb35-4" aria-hidden="true" tabindex="-1"></a>                                        <span class="at">margin=</span><span class="dv">2</span>, <span class="co"># by column</span></span>
-<span id="cb35-5"><a href="#cb35-5" aria-hidden="true" tabindex="-1"></a>                                        <span class="at">range =</span> <span class="fu">c</span>(<span class="dv">0</span>, <span class="dv">10</span>))</span>
-<span id="cb35-6"><a href="#cb35-6" aria-hidden="true" tabindex="-1"></a>data<span class="sc">$</span>percpinst <span class="ot">&lt;-</span> <span class="fu">normalize</span>(subdata<span class="sc">$</span>factor2, </span>
-<span id="cb35-7"><a href="#cb35-7" aria-hidden="true" tabindex="-1"></a>                                        <span class="at">method =</span> <span class="st">&quot;range&quot;</span>, </span>
-<span id="cb35-8"><a href="#cb35-8" aria-hidden="true" tabindex="-1"></a>                                        <span class="at">margin=</span><span class="dv">2</span>, <span class="co"># by column</span></span>
-<span id="cb35-9"><a href="#cb35-9" aria-hidden="true" tabindex="-1"></a>                                        <span class="at">range =</span> <span class="fu">c</span>(<span class="dv">0</span>, <span class="dv">10</span>))</span>
-<span id="cb35-10"><a href="#cb35-10" aria-hidden="true" tabindex="-1"></a>data<span class="sc">$</span>autopol <span class="ot">&lt;-</span> <span class="fu">normalize</span>(subdata<span class="sc">$</span>factor3, </span>
-<span id="cb35-11"><a href="#cb35-11" aria-hidden="true" tabindex="-1"></a>                                        <span class="at">method =</span> <span class="st">&quot;range&quot;</span>, </span>
-<span id="cb35-12"><a href="#cb35-12" aria-hidden="true" tabindex="-1"></a>                                        <span class="at">margin=</span><span class="dv">2</span>, <span class="co"># by column</span></span>
-<span id="cb35-13"><a href="#cb35-13" aria-hidden="true" tabindex="-1"></a>                                        <span class="at">range =</span> <span class="fu">c</span>(<span class="dv">0</span>, <span class="dv">10</span>))</span></code></pre></div>
+<div class="sourceCode" id="cb32"><pre class="sourceCode r"><code class="sourceCode r"><span id="cb32-1"><a href="#cb32-1" tabindex="-1"></a>factorial_casos<span class="ot">&lt;-</span><span class="fu">as.data.frame</span>(factorial<span class="sc">$</span>scores)</span></code></pre></div>
+<div class="sourceCode" id="cb33"><pre class="sourceCode r"><code class="sourceCode r"><span id="cb33-1"><a href="#cb33-1" tabindex="-1"></a>subdata<span class="sc">$</span>factor1<span class="ot">&lt;-</span> factorial_casos<span class="sc">$</span>MR1</span>
+<span id="cb33-2"><a href="#cb33-2" tabindex="-1"></a>subdata<span class="sc">$</span>factor2<span class="ot">&lt;-</span> factorial_casos<span class="sc">$</span>MR2</span>
+<span id="cb33-3"><a href="#cb33-3" tabindex="-1"></a>subdata<span class="sc">$</span>factor3<span class="ot">&lt;-</span> factorial_casos<span class="sc">$</span>MR3</span></code></pre></div>
+<div class="sourceCode" id="cb34"><pre class="sourceCode r"><code class="sourceCode r"><span id="cb34-1"><a href="#cb34-1" tabindex="-1"></a><span class="fu">library</span>(BBmisc)</span>
+<span id="cb34-2"><a href="#cb34-2" tabindex="-1"></a>data<span class="sc">$</span>autoecon <span class="ot">&lt;-</span> <span class="fu">normalize</span>(subdata<span class="sc">$</span>factor1, </span>
+<span id="cb34-3"><a href="#cb34-3" tabindex="-1"></a>                                        <span class="at">method =</span> <span class="st">&quot;range&quot;</span>, </span>
+<span id="cb34-4"><a href="#cb34-4" tabindex="-1"></a>                                        <span class="at">margin=</span><span class="dv">2</span>, <span class="co"># by column</span></span>
+<span id="cb34-5"><a href="#cb34-5" tabindex="-1"></a>                                        <span class="at">range =</span> <span class="fu">c</span>(<span class="dv">0</span>, <span class="dv">10</span>))</span>
+<span id="cb34-6"><a href="#cb34-6" tabindex="-1"></a>data<span class="sc">$</span>percpinst <span class="ot">&lt;-</span> <span class="fu">normalize</span>(subdata<span class="sc">$</span>factor2, </span>
+<span id="cb34-7"><a href="#cb34-7" tabindex="-1"></a>                                        <span class="at">method =</span> <span class="st">&quot;range&quot;</span>, </span>
+<span id="cb34-8"><a href="#cb34-8" tabindex="-1"></a>                                        <span class="at">margin=</span><span class="dv">2</span>, <span class="co"># by column</span></span>
+<span id="cb34-9"><a href="#cb34-9" tabindex="-1"></a>                                        <span class="at">range =</span> <span class="fu">c</span>(<span class="dv">0</span>, <span class="dv">10</span>))</span>
+<span id="cb34-10"><a href="#cb34-10" tabindex="-1"></a>data<span class="sc">$</span>autopol <span class="ot">&lt;-</span> <span class="fu">normalize</span>(subdata<span class="sc">$</span>factor3, </span>
+<span id="cb34-11"><a href="#cb34-11" tabindex="-1"></a>                                        <span class="at">method =</span> <span class="st">&quot;range&quot;</span>, </span>
+<span id="cb34-12"><a href="#cb34-12" tabindex="-1"></a>                                        <span class="at">margin=</span><span class="dv">2</span>, <span class="co"># by column</span></span>
+<span id="cb34-13"><a href="#cb34-13" tabindex="-1"></a>                                        <span class="at">range =</span> <span class="fu">c</span>(<span class="dv">0</span>, <span class="dv">10</span>))</span></code></pre></div>
 </div>
 </div>
 
